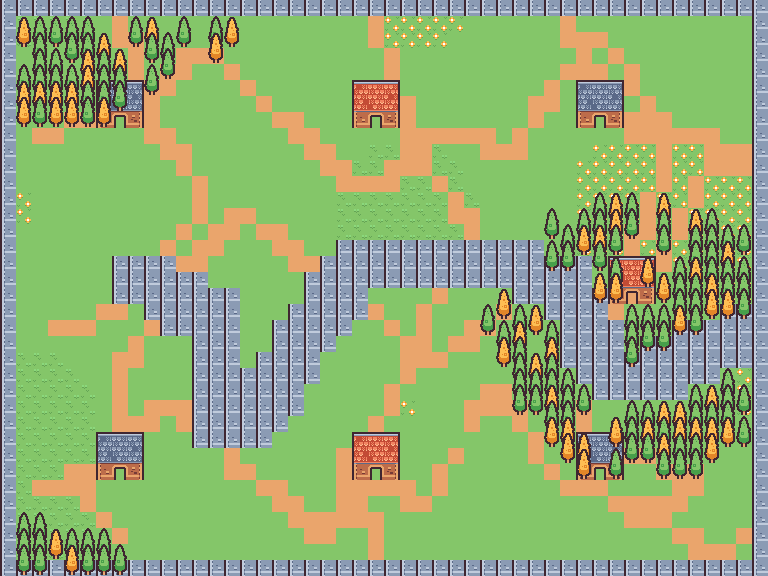
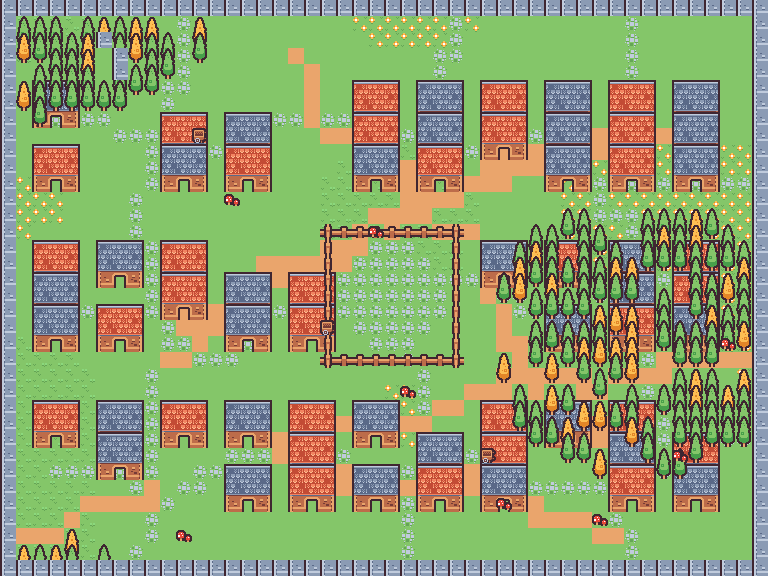
feat: Aethonia-Stadt — Pflaster-Hauptstrassen, Marktplatz mit Zaun, viele Haeuser, Nebenstrassen, Teich, Deko (Schubkarren, Pilze)

diff --git a/scripts/build_aethonia_world.py b/scripts/build_aethonia_world.py
@@ -1,7 +1,7 @@
 #!/usr/bin/env python3
-"""Baut eine SEHR DYNAMISCHE Aethonia-Pixel-Weltkarte aus den Kenney-Tiles.
-Organische geschwungene Wege (zufällige Drift), natürliche Flüsse, Seen,
-Baum-Cluster, Biome-Färbung. Ergebnis: assets/kenney-tiny-town/aethonia_world.png"""
+"""Baut eine SCHÖNE AETHONIA-STADT aus den Kenney-Tiles.
+Straßen-Netz, viele Häuser, Marktplatz, Zäune, Bäume, Deko.
+Ergebnis: assets/kenney-tiny-town/aethonia_world.png"""
 from PIL import Image
 import random, math
 
@@ -14,17 +14,9 @@ def tile(i):
 # Karten-Größe
 W, H = 48, 36
 TS = 16
-
-# ============================================================
-# Seeded Noise für organische Formen
-# ============================================================
-def make_rng(seed):
-    return random.Random(seed)
-
-rng = make_rng(1337)
+rng = random.Random(2026)
 
 def smooth_noise(x, y, freq):
-    """Einfaches value-noise für organische Drift."""
     def cell(a, b):
         rng2 = random.Random((a*7919 + b*104729) & 0xffffffff)
         return rng2.random() * 2 - 1
@@ -38,7 +30,7 @@ def smooth_noise(x, y, freq):
     return nx0 + (nx1-nx0)*ty
 
 # ============================================================
-# Boden: Gras als Basis
+# Boden: Gras
 # ============================================================
 base = Image.new("RGBA", (W*TS, H*TS), (0,0,0,0))
 grass = tile(0)
@@ -46,93 +38,67 @@ for y in range(H):
     for x in range(W):
         base.paste(grass, (x*TS, y*TS))
 
-# Gras-Varianten mit Noise streuen (organisch, nicht Zufall)
+# Gras-Varianten mit Noise
 g1, g2 = tile(1), tile(2)
 for y in range(H):
     for x in range(W):
         n = smooth_noise(x, y, 0.08)
-        if n > 0.55:
+        if n > 0.5:
             base.paste(g1, (x*TS, y*TS), g1)
-        elif n < -0.55:
+        elif n < -0.5:
             base.paste(g2, (x*TS, y*TS), g2)
 
 # ============================================================
-# ORGANISCHE GESCHWUNGENE WEGE (random-walk mit Noise-Drift)
+# STADT-STRASSEN (Pflaster + Wege)
 # ============================================================
-path = tile(25)
-# Set für Weg-Pixel (Grid-Koordinaten)
-path_cells = set()
+path = tile(25)       # Weg-Mitte
+pflaster = tile(43)   # Pflasterstein
+street_cells = set()
 
-def draw_winding_path(start, end, noise_freq=0.12, drift=5):
-    """Zeichnet einen organisch geschwungenen Weg. Verwendet Noise für Drift."""
+def draw_street(start, end, noise_freq=0.15, drift=3, surface=25):
     x, y = start
     tx, ty = end
     steps = max(abs(tx-x), abs(ty-y)) * 2
     for s in range(steps+1):
         t = s / steps
-        # Ziel-Interpolation
-        gx = x + (tx-x) * t
-        gy = y + (ty-y) * t
-        # Noise-Drift senkrecht
-        perp_noise = smooth_noise(s, 0, noise_freq) * drift
-        # Senkrechte Richtung berechnen
-        dx, dy = tx-x, ty-y
-        length = math.hypot(dx, dy) or 1
-        px, py = -dy/length, dx/length  # senkrecht
-        gx += px * perp_noise
-        gy += py * perp_noise
-        # Auch entlang-Noise für wellige Wege
-        gx += smooth_noise(s, 10, noise_freq*0.5) * drift * 0.5
-        gy += smooth_noise(s, 20, noise_freq*0.5) * drift * 0.5
+        gx = x + (tx-x) * t + smooth_noise(s, 0, noise_freq) * drift
+        gy = y + (ty-y) * t + smooth_noise(s, 10, noise_freq) * drift
         cx, cy = int(round(gx)), int(round(gy))
         if 1 <= cx < W-1 and 1 <= cy < H-1:
-            path_cells.add((cx, cy))
-            base.paste(path, (cx*TS, cy*TS), path)
+            street_cells.add((cx, cy))
+            base.paste(tile(surface), (cx*TS, cy*TS), tile(surface))
 
-# Hauptwege — organisch von Rand zu Rand
-draw_winding_path((2, 6), (46, 8), 0.10, 4)
-draw_winding_path((2, 18), (46, 16), 0.08, 5)
-draw_winding_path((2, 28), (46, 30), 0.12, 4)
-# Vertikale organische Wege
-draw_winding_path((10, 2), (8, 34), 0.10, 4)
-draw_winding_path((26, 2), (24, 34), 0.08, 5)
-draw_winding_path((38, 2), (40, 34), 0.12, 4)
+# Hauptstraßen (Pflaster) — Stadtkern
+draw_street((2, 8), (46, 10), 0.10, 2, 43)
+draw_street((2, 20), (46, 18), 0.08, 3, 43)
+draw_street((2, 30), (46, 28), 0.12, 2, 43)
+# Vertikale Hauptstraßen
+draw_street((10, 2), (8, 34), 0.10, 2, 43)
+draw_street((26, 2), (24, 34), 0.08, 3, 43)
+draw_street((38, 2), (40, 34), 0.12, 2, 43)
 
-# ============================================================
-# NATÜRLICHER FLUSS (Wasser-Band durch die Karte)
-# ============================================================
-water = tile(76)
-river_cells = set()
-def draw_river(start, end, noise_freq=0.06, width=2):
-    x, y = start
-    tx, ty = end
-    steps = max(abs(tx-x), abs(ty-y)) * 3
-    for s in range(steps+1):
-        t = s / steps
-        gx = x + (tx-x) * t + smooth_noise(s, 5, noise_freq) * 8
-        gy = y + (ty-y) * t + smooth_noise(s, 15, noise_freq) * 8
-        cx, cy = int(round(gx)), int(round(gy))
-        for dy in range(-width//2, width//2+1):
-            for dx in range(-width//2, width//2+1):
-                if 0 <= cx+dx < W and 0 <= cy+dy < H:
-                    river_cells.add((cx+dx, cy+dy))
-draw_river((4, 20), (44, 22), 0.05, 2)
+# Nebenstraßen (Weg) — organisch
+for _ in range(6):
+    x0 = rng.randint(2, W-3)
+    y0 = rng.randint(2, H-3)
+    x1 = rng.randint(2, W-3)
+    y1 = rng.randint(2, H-3)
+    draw_street((x0, y0), (x1, y1), 0.15, 2, 25)
 
 # ============================================================
-# WASSER rendern (Fluss zuerst, dann Rand)
+# MARKTPLATZ (zentraler Platz mit Pflaster)
 # ============================================================
-for (cx, cy) in river_cells:
-    base.paste(water, (cx*TS, cy*TS), water)
-# Ozean an den Rändern
-for y in range(H):
-    for x in [0, W-1]:
-        base.paste(water, (x*TS, y*TS), water)
-for x in range(W):
-    for y in [0, H-1]:
-        base.paste(water, (x*TS, y*TS), water)
+market_cx, market_cy = 24, 18
+for dy in range(-3, 4):
+    for dx in range(-3, 4):
+        if abs(dx) + abs(dy) <= 4:
+            cx, cy = market_cx+dx, market_cy+dy
+            if 1 <= cx < W-1 and 1 <= cy < H-1:
+                base.paste(pflaster, (cx*TS, cy*TS), pflaster)
+                street_cells.add((cx, cy))
 
 # ============================================================
-# HÄUSER an Weg-Kreuzungen (nur wo Weg ist)
+# HÄUSER (viele, entlang der Straßen)
 # ============================================================
 def place_house(base, gx, gy, variant="gray"):
     if variant == "gray":
@@ -146,24 +112,43 @@ def place_house(base, gx, gy, variant="gray"):
     for i, t in enumerate(facade):
         base.paste(tile(t), ((gx+i)*TS, (gy+2)*TS), tile(t))
 
-# Häuser entlang der Wege (wo Weg-Zellen nahe sind)
-house_spots = [(6,5),(6,16),(6,27),(22,5),(24,16),(22,27),(36,5),(38,16),(36,27)]
-for i, (gx, gy) in enumerate(house_spots):
-    # Nur platzieren, wenn nicht auf Wasser
-    if not any((gx+dx, gy+dy) in river_cells for dx in range(3) for dy in range(3)):
-        place_house(base, gx, gy, "gray" if i % 2 == 0 else "brown")
+# Häuser entlang der Hauptstraßen (versetzt, abwechselnd grau/braun)
+house_rows = [5, 7, 9, 15, 17, 19, 25, 27, 29]
+house_cols = [5, 7, 9, 21, 23, 25, 33, 35, 37]
+house_idx = 0
+for gy in house_rows:
+    for gx in range(2, W-4, 4):
+        # Nur wenn nahe einer Straße (nicht auf dem Marktplatz)
+        if abs(gx - market_cx) < 4 and abs(gy - market_cy) < 4:
+            continue
+        if rng.random() < 0.7:
+            place_house(base, gx, gy, "gray" if house_idx % 2 == 0 else "brown")
+            house_idx += 1
 
 # ============================================================
-# BÄUME — Cluster-artig mit Noise (organisch)
+# ZÄUNE (um Häuser/Gärten)
+# ============================================================
+fence_h = tile(45)  # Zaun wagerecht
+fence_v = tile(59)  # Zaun senkrecht
+# Zaun um den Marktplatz
+for dx in range(-4, 5):
+    base.paste(fence_h, ((market_cx+dx)*TS, (market_cy-4)*TS), fence_h)
+    base.paste(fence_h, ((market_cx+dx)*TS, (market_cy+4)*TS), fence_h)
+for dy in range(-4, 5):
+    base.paste(fence_v, ((market_cx-4)*TS, (market_cy+dy)*TS), fence_v)
+    base.paste(fence_v, ((market_cx+4)*TS, (market_cy+dy)*TS), fence_v)
+
+# ============================================================
+# BÄUME (an den Rändern, Parks)
 # ============================================================
 tree_green_crown, tree_green_body = tile(4), tile(16)
 tree_yellow_crown, tree_yellow_body = tile(3), tile(15)
 for y in range(1, H-1):
     for x in range(1, W-1):
-        if (x, y) in path_cells or (x, y) in river_cells:
+        if (x, y) in street_cells:
             continue
         n = smooth_noise(x, y, 0.05)
-        if n > 0.35:  # Noise-gesteuerte Cluster
+        if n > 0.4:
             r = rng.random()
             if r < 0.6:
                 base.paste(tree_green_crown, (x*TS, y*TS), tree_green_crown)
@@ -172,5 +157,36 @@ for y in range(1, H-1):
                 base.paste(tree_yellow_crown, (x*TS, y*TS), tree_yellow_crown)
                 base.paste(tree_yellow_body, (x*TS, (y+1)*TS), tree_yellow_body)
 
+# ============================================================
+# WASSER (Ozean an den Rändern + Teich im Park)
+# ============================================================
+water = tile(76)
+for y in range(H):
+    for x in [0, W-1]:
+        base.paste(water, (x*TS, y*TS), water)
+for x in range(W):
+    for y in [0, H-1]:
+        base.paste(water, (x*TS, y*TS), water)
+# Teich im Park (oben links)
+for dy in range(3):
+    for dx in range(3):
+        if rng.random() < 0.8:
+            base.paste(water, ((6+dx)*TS, (2+dy)*TS), water)
+
+# ============================================================
+# DEKO (Schubkarren, Pilze)
+# ============================================================
+cart = tile(57)
+mushroom = tile(29)
+# Schubkarren an Straßen
+for (cx, cy) in [(12, 8), (30, 28), (20, 20)]:
+    if (cx, cy) not in street_cells:
+        base.paste(cart, (cx*TS, cy*TS), cart)
+# Pilze im Gras
+for _ in range(8):
+    px, py = rng.randint(2, W-3), rng.randint(2, H-3)
+    if (px, py) not in street_cells:
+        base.paste(mushroom, (px*TS, py*TS), mushroom)
+
 base.save(OUT)
-print(f"Sehr dynamische Weltkarte gespeichert: {OUT} ({W*TS}x{H*TS})")
+print(f"Aethonia-Stadt gespeichert: {OUT} ({W*TS}x{H*TS})")
